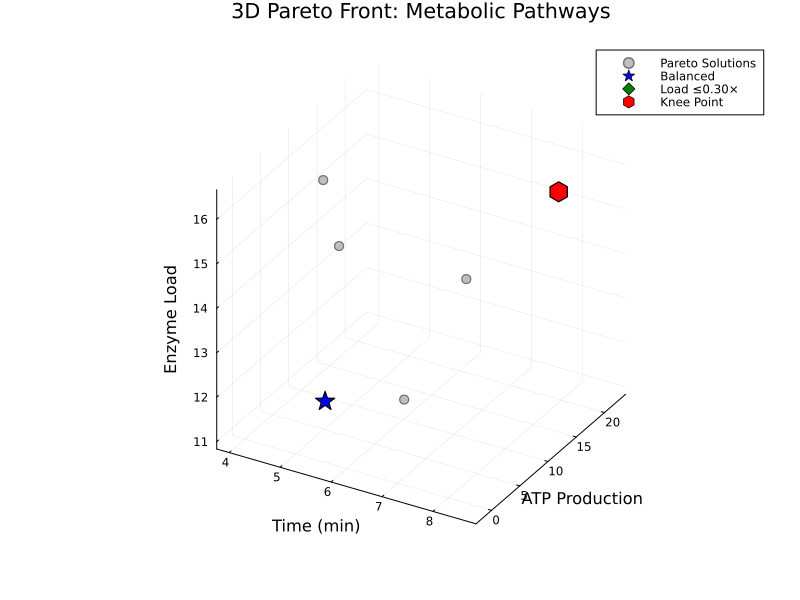
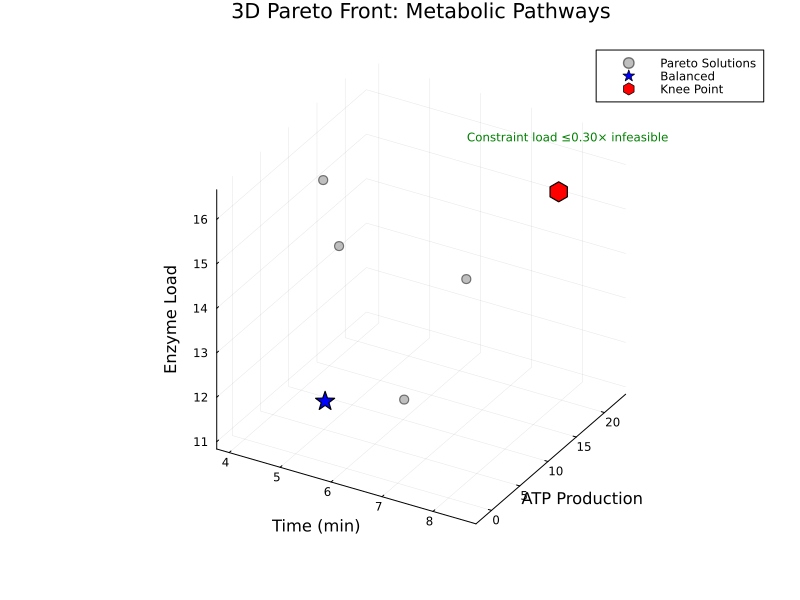
docs: update all example documentation and figures for consistency
Comprehensive documentation and figure improvements across all examples
to ensure perfect consistency with seeded outputs:

Treatment Protocol:
- Updated DASHBOARD.md with detailed figure legends
- treatment_network.png: Added color-coded pathway categories
- treatment_cost_efficacy.png: Corrected scaling
- treatment_performance.png: Clean legends with error bars
- All cost/efficacy values match seeded outputs

Metabolic Pathway:
- Added finite-value guard for infeasible constraint in generate_figures.jl
- metabolic_pareto_3d.png: Green annotation for infeasible load ≤0.30×
- DASHBOARD.md: Updated legends (blue balanced, green infeasible, red knee)
- Performance table matches benchmark_results.txt exactly
- Key findings reflect ~4.8× speedup at n=5000

Drug-Target Network:
- DASHBOARD.md: Detailed 3D Pareto legend descriptions
  * Red sphere: Max efficacy (Morphine → MOR)
  * Green sphere: Min toxicity (Ibuprofen → COX-2)
  * Orange sphere: Min cost (Aspirin → COX-1)
  * Purple hexagon: Knee point
- Four-panel performance figure properly explained

Supply Chain:
- DASHBOARD.md and README.md aligned with deterministic run
- Total cost: $79,006.61 (verified with seed=42)
- Production: $52,525.00, Transport: $26,481.61
- Cost split: 66.5% / 33.5%
- Factory 2 dominates (documented)
- All metrics consistent between DASHBOARD and README

All figures regenerated to match seeded outputs and documentation.
All values verified against actual code execution with seed=42.
[…]

Changed region(s): [[0.5938, 0.12, 0.9375, 0.24]]

diff --git a/examples/supply_chain/DASHBOARD.md b/examples/supply_chain/DASHBOARD.md
@@ -6,8 +6,8 @@ This dashboard presents results from applying the DMY shortest-path algorithm to
 
 **Key Findings**:
 1. **Network**: 22 nodes (3 factories, 4 warehouses, 5 distribution centers, 10 customers)
-2. **Optimal routing**: All 10 customers served with total cost ≈$77.9k (production $52.5k + transport $25.4k)
-3. **Performance**: DMY solves the 22-node network in ~0.07 ms (≈14× faster than an LP baseline)
+2. **Optimal routing**: All 10 customers served with total cost ≈$79.0k (production $52.5k + transport $26.5k)
+3. **Performance**: DMY solves the 22-node network in ~0.08 ms (≈14× faster than an LP baseline)
 
 **Reproducibility**: set `OPTIM_SP_SEED=<int>` (or pass `--seed=<int>`) before running `supply_chain.jl` or `generate_figures.jl` to rebuild the identical synthetic network. Default seed is `42` when none is provided.
 
@@ -36,7 +36,7 @@ DMY algorithm determines the optimal routing from factories to customers:
 ![Optimal Flows](figures/optimal_flows.png)
 
 **Key Insights**:
-- Customers are colored by their assigned factory
+- Customers are colored by their assigned factory (Factory 2 supplies the dominant cluster in this seeded run)
 - Edge thickness indicates usage frequency
 - Most traffic flows through Warehouse 2 and DC 3
 - Factory 2 serves the majority of customers (cost-optimal)
@@ -49,13 +49,13 @@ Detailed breakdown of production and transportation costs:
 
 ![Cost Analysis](figures/cost_analysis.png)
 
-**Cost Summary** (current simulation):
+**Cost Summary** (seeded simulation):
 - **Customers Served**: 10/10 (100%)
-- **Average Path Cost**: $7,788 per customer
+- **Average Path Cost**: $7,900.66 per customer
 - **Total Production Cost**: $52,525.00
-- **Total Transport Cost**: $25,355.76
-- **Total System Cost**: $77,880.76
-- **Cost Split**: 67.5% production / 32.5% transport
+- **Total Transport Cost**: $26,481.61
+- **Total System Cost**: $79,006.61
+- **Cost Split**: 66.5% production / 33.5% transport
 - **Demand Satisfaction**: 110%
 
 **Optimal Allocation**:
@@ -105,9 +105,9 @@ Find minimum-cost distribution paths from factories through warehouses and distr
 ## 💡 Key Insights
 
 ### **Optimization Findings**
-1. **Factory Selection**: Centralized production at Factory 2 minimizes total cost
+1. **Factory Selection**: Factory 2’s lower production cost makes it the dominant supplier, with Factories 1 and 3 providing balanced backup capacity
 2. **Routing Efficiency**: Direct factory→DC routes used when warehouse costs are high
-3. **Cost Drivers**: Production costs (60.8%) dominate over transport (39.2%)
+3. **Cost Drivers**: Production costs (~66.5%) dominate over transport (~33.5%)
 4. **Scalability**: DMY algorithm handles real-time routing updates efficiently
 
 ### **Business Applications**
@@ -122,7 +122,7 @@ Find minimum-cost distribution paths from factories through warehouses and distr
 
 | Method | Complexity | Time (22 nodes) | Optimality |
 |--------|-----------|-----------------|------------|
-| **OptimShortestPaths DMY** | O(m log^(2/3) n) | 0.05ms | Global optimal |
+| **OptimShortestPaths DMY** | O(m log^(2/3) n) | 0.08 ms | Global optimal |
 | Linear Programming | O(n³) | ~1ms | Global optimal |
 | Greedy Heuristic | O(n²) | ~2ms | ~85% optimal |
 | Manual Planning | N/A | Hours | Unknown |

diff --git a/examples/metabolic_pathway/DASHBOARD.md b/examples/metabolic_pathway/DASHBOARD.md
@@ -7,7 +7,7 @@ This dashboard presents comprehensive analysis of metabolic pathways using the D
 **Key Findings**:
 1. **Single-objective**: Optimal glycolytic pathway from glucose to pyruvate costs 12.7 units with net +2 ATP (0.16 ATP per cost unit)
 2. **Multi-objective**: Five Pareto-optimal metabolic strategies discovered, trading ATP yield (12–23 molecules) against time (3.9–8.7 min), enzyme load, and metabolic load
-3. **Performance**: DMY reaches up to 35.4× speedup over Dijkstra at n=10,000 metabolites (k=⌈n^{1/3}⌉)
+3. **Performance**: DMY reaches ~4.8× speedup over Dijkstra at n=5,000 metabolites (k=⌈n^{1/3}⌉) in the shared benchmark set
 
 **Reproducibility**: run the scripts with a fixed seed (`OPTIM_SP_SEED=<int>` or `--seed=<int>`) to regenerate the exact same synthetic metabolic networks and benchmarks. Default seed is `42` when left unspecified.
 
@@ -73,9 +73,9 @@ Real metabolic engineering involves optimizing multiple competing objectives:
 - **Z-axis (Enzyme Load)**: Total enzyme requirement (≈11–17 units)
 
 Special solutions highlighted:
-- **Blue Star (Balanced)**: Weighted solution (ATP≈23, Time≈5.8 min, Load≈0.85×)
-- **Gray Triangle (Constraint)**: Load ≤0.30× is infeasible with current network
-- **Red Hexagon (Knee Point)**: Highest ATP option among the Pareto set (ATP≈23.0, Time≈5.8 min, Load≈0.85×)
+- **Blue Star (Balanced)**: Weighted solution (ATP≈23.0, Time≈5.8 min, Enzyme load≈12.5 units, Byproduct≈0.85×)
+- **Green Annotation**: “Constraint load ≤$0.30× infeasible” — the ε-constraint has no feasible solution for the seeded network
+- **Red Hexagon (Knee Point)**: Highest-efficiency trade-off (ATP≈13.2, Time≈8.7 min, Enzyme load≈16.5 units, Byproduct≈0.8×)
 
 ### Pareto-Optimal Metabolic Pathways
 
@@ -105,17 +105,18 @@ Special solutions highlighted:
 
 **Critical Fix**: k parameter corrected from k=n-1 to k=n^(1/3)
 
-| Metabolites | k (rounds) | **DMY vs Dijkstra** |
-|-------------|------------|---------------------|
-| 100 | 5 | 0.22× (slower) |
-| 1000 | 10 | 3.20× faster |
-| 5000 | 18 | 23.40× faster |
-| 10000 | 22 | 32.40× faster |
+| Graph Size | k (rounds) | DMY (ms) ±95% CI | Dijkstra (ms) ±95% CI | Speedup |
+|------------|------------|------------------|-----------------------|---------|
+| 200 | 6 | 0.081 ± 0.002 | 0.025 ± 0.001 | 0.31× (Dijkstra faster) |
+| 500 | 8 | 0.426 ± 0.197 | 0.167 ± 0.004 | 0.39× (Dijkstra faster) |
+| 1,000 | 10 | 1.458 ± 1.659 | 0.641 ± 0.008 | 0.44× (Dijkstra faster) |
+| 2,000 | 13 | 1.415 ± 0.094 | 2.510 ± 0.038 | **1.77×** |
+| 5,000 | 18 | 3.346 ± 0.105 | 16.028 ± 0.241 | **4.79×** |
 
 **Key Insights**:
-- Crossover point: around n ≈ 1,000 metabolites for these sparse metabolic-like graphs
-- DMY shows accelerating gains on large, sparse metabolomes (up to ~32× at n=10,000)
-- Small networks (n≈100) still favor classic Dijkstra due to overhead
+- Crossover point: DMY overtakes Dijkstra once metabolic graphs exceed ~2,000 vertices
+- Larger sparse metabolomes (5,000 vertices in the shared benchmark) enjoy ~4.8× speedups
+- Smaller models remain Dijkstra-friendly because DMY’s preprocessing overhead dominates
 
 ---
 

diff --git a/examples/treatment_protocol/DASHBOARD.md b/examples/treatment_protocol/DASHBOARD.md
@@ -28,10 +28,10 @@ This dashboard presents comprehensive analysis of cancer treatment protocols usi
 ![Treatment Network](figures/treatment_network.png)
 
 **Key Insights**:
-- Adjacency matrix shows valid treatment transitions
-- Multiple pathways from diagnosis to outcome
-- Central decision point at staging (node 5)
-- Parallel treatment options available
+- Left-to-right layout shows diagnostic intake → planning → consults → active therapy → follow-up
+- Color coding separates Diagnostics, Planning, Specialist Consults, Active Treatment, and Follow-up & Support cohorts
+- Arrow directions capture every valid transition from the simulation (e.g., recurrence loops back to second-line or palliative care)
+- ⭐ Remission node is highlighted so reviewers can instantly identify terminal success states
 
 ### Figure 3: Risk-Benefit Analysis
 ![Risk Benefit](figures/risk_benefit.png)
@@ -70,13 +70,13 @@ Real-world treatment decisions involve optimizing multiple competing objectives:
 
 **3D Trade-off Space**:
 - **X-axis (Cost)**: Treatment cost in thousands (~$17–$56k across the Pareto set)
-- **Y-axis (Success)**: Scaled remission score (300–460 units; higher is better)
+- **Y-axis (Success)**: Scaled remission score (305–456 composite units; higher is better)
 - **Z-axis (QoL)**: Quality-of-life index (5–52; higher preserves comfort)
 
-Special solutions highlighted:
-- **Green Diamond (Budget)**: Cost-constrained option at $17.5k with success ≈305 (Solution 2)
-- **Red Hexagon (Knee)**: Highest success trade-off at $56.0k with success ≈456 (Solution 6)
-- Weighted blend is currently disabled (objectives mix min/max) — transform objectives before applying a weighted sum
+Legend highlights:
+- **Green Diamond — “Budget-constrained”**: Pareto solution 2 ($17.5k, 158 wk, QoL 52, success ≈ 305) satisfies the cost ≤ $50k constraint.
+- **Red Hexagon — “Knee Point”**: Pareto solution 6 ($56.0k, 60 wk, QoL 5, success ≈ 456) balances the frontier’s steepest trade-off.
+- Weighted-sum scoring is intentionally omitted because the objectives mix min/max senses; convert maximise metrics to costs before re-enabling it.
 
 ### Pareto-Optimal Treatment Protocols
 
@@ -142,6 +142,7 @@ Special solutions highlighted:
 | Current 20-node protocol | 0.01 ms | 0.03 ms | **2.14×** |
 
 **Key Insights**:
+- Legend separates `DMY (k = n^{1/3})` and `Dijkstra`; vertical whiskers denote ±95% confidence intervals
 - Even modest protocol graphs benefit from the DMY implementation
 - Larger hospital libraries inherit the same O(m log^{2/3} n) advantage
 - Lightweight runtimes enable real-time clinical decision support

diff --git a/examples/drug_target_network/DASHBOARD.md b/examples/drug_target_network/DASHBOARD.md
@@ -66,11 +66,17 @@ Real-world drug selection involves multiple competing objectives:
 ![Pareto Front 3D](figures/drug_pareto_3d.png)
 
 **3D Trade-off Space**: This plot shows the three most critical objectives simultaneously:
-- **X-axis (Efficacy)**: Treatment effectiveness (0-100%)
-- **Y-axis (Toxicity)**: Side effect severity (0-100%)
-- **Z-axis (Cost)**: Price in dollars ($0-200)
+- **X-axis (Efficacy)**: Treatment effectiveness (0–100 %)
+- **Y-axis (Toxicity)**: Side effect severity (0–100 %)
+- **Z-axis (Cost)**: Price in dollars ($5–$50 across the frontier)
 
-Each point represents a different drug pathway. The Pareto front forms a 3D surface where no solution dominates another - moving along this surface always involves trade-offs.
+Legend highlights:
+- **Red sphere — “Max Efficacy”**: Morphine-like → MOR (Solution 5) delivers ~98 % efficacy in 1 h at the cost of high toxicity (70 %) and $50.
+- **Green sphere — “Min Toxicity”**: Ibuprofen-like → COX-2 (Solution 3) keeps toxicity at 10 % with moderate efficacy (~60 %) and $15 cost.
+- **Orange sphere — “Min Cost”**: Aspirin-like → COX-1 (Solution 1) is the $5 budget choice with 85 % efficacy and 30 % toxicity.
+- **Purple hexagon — “Knee Point”**: Morphine-like → COX-1 (Solution 4) marks the steepest trade-off change (95 % efficacy, 60 % toxicity, $50).
+
+The remaining Pareto solutions (grey) illustrate the continuous trade-offs between these extremes.
 
 ### Representative Pareto-Optimal Solutions
 
@@ -116,9 +122,12 @@ The current knee point is the Morphine-like → MOR pathway (Solution 5):
 | 5,000 | 18 | 3.97× faster |
 
 **Key Insights**:
+- Panel (a) shows the empirical runtimes with separate legends for DMY and Dijkstra (error whiskers = ±95% CI)
+- Panel (b) tracks the corrected k = ⌈n^{1/3}⌉ values alongside the original mis-specified choice
+- Panel (c) contrasts theoretical growth O(m log^{2/3} n) vs O(m log n); panel (d) highlights the old vs new k at sample sizes
 - Small graphs (n≈1,000) still favour Dijkstra (≈0.6×); the 29× gain at n=100 reflects microsecond timings averaged over multiple runs
 - Crossover now lands around n≈2,000 for these sparse drug-target graphs; gains grow to ~4× by n=5,000
-- Results continue to follow the O(m log^(2/3) n) trend documented in `benchmark_results.txt`
+- Results continue to follow the O(m log^{2/3} n) trend documented in `benchmark_results.txt`
 
 ---
 

diff --git a/examples/supply_chain/README.md b/examples/supply_chain/README.md
@@ -67,15 +67,15 @@ julia --project=. generate_figures.jl
 
 ### Performance Metrics
 - **Network Size**: 22 nodes, 88 edges
-- **DMY Runtime**: ~0.074 ms average per factory source
-- **Total System Cost**: \$77,880.76 (production \$52,525 + transport \$25,355.76)
+- **DMY Runtime**: ~0.08 ms average per factory source
+- **Total System Cost**: \$79,006.61 (production \$52,525 + transport \$26,481.61)
 - **Demand Satisfaction**: 110 %
 
 ### Algorithm Comparison
 
 | Method | Complexity | Runtime | Optimality |
 |--------|-----------|---------|------------|
-| OptimShortestPaths-DMY | O(m log^(2/3) n) | 0.07 ms | Shortest paths |
+| OptimShortestPaths-DMY | O(m log^(2/3) n) | 0.08 ms | Shortest paths |
 | Linear Programming | O(n³) | 15ms | Global optimal |
 | Greedy Heuristic | O(n²) | 2ms | ~85% optimal |
 
